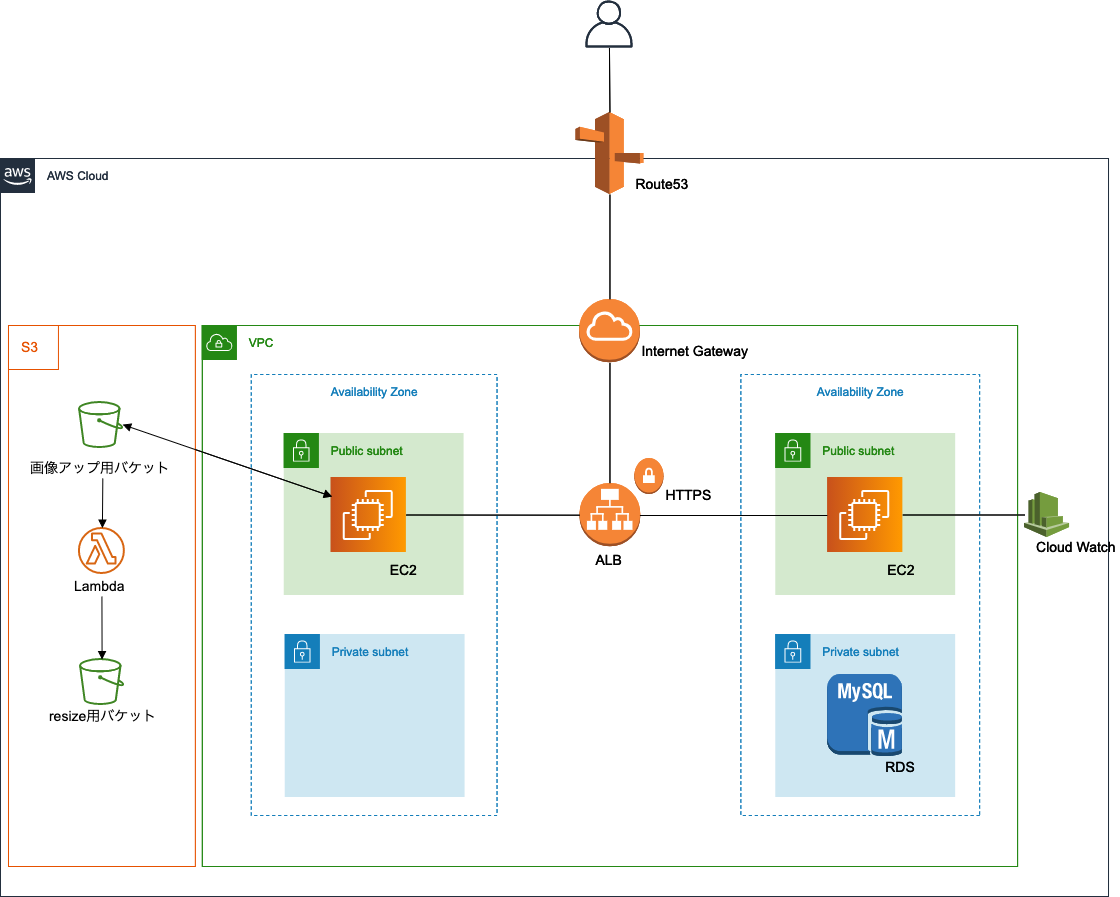
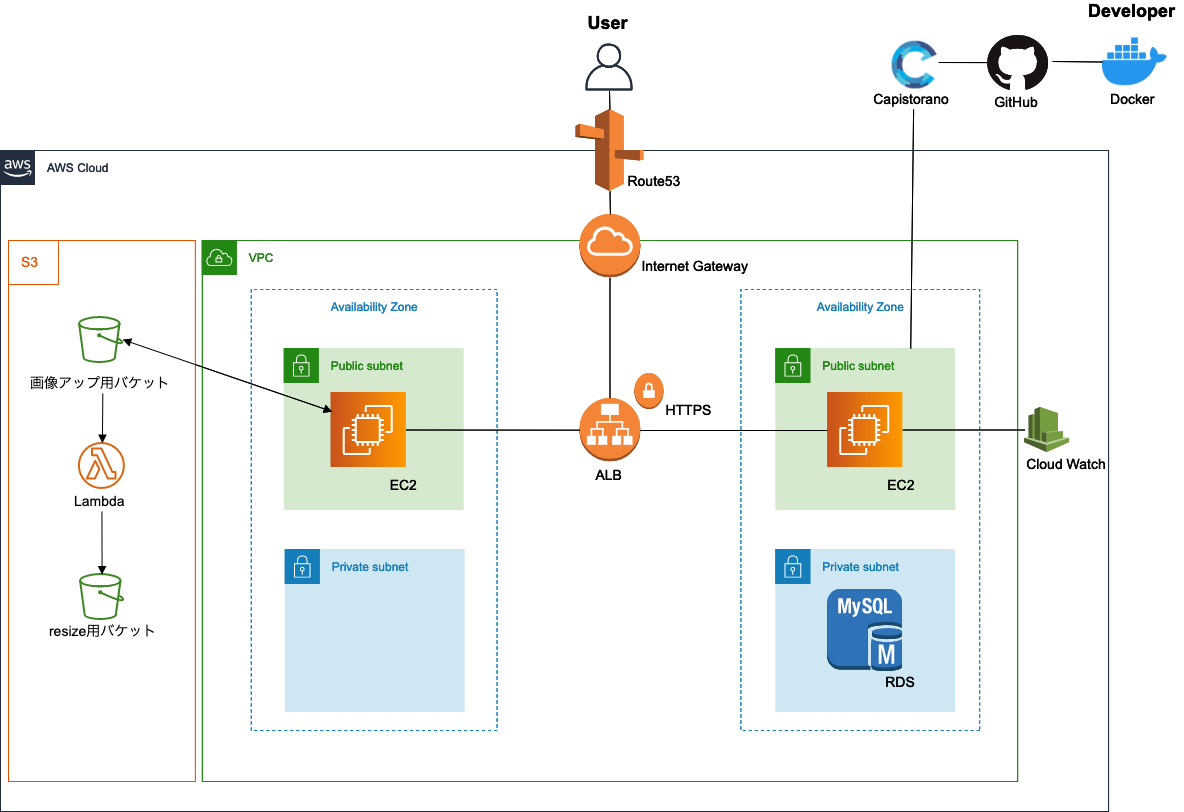
README追記

diff --git a/README.md b/README.md
@@ -70,7 +70,7 @@ https://docs.google.com/spreadsheets/d/15X4uNo8008gP_WllnuBtxRkhUszWKZ5rvKUxfgOd
 <br>
 
 ### **開発環境**
-+ vagrant
++ Docker
 + MYSQL
 
 ### **本版環境**
